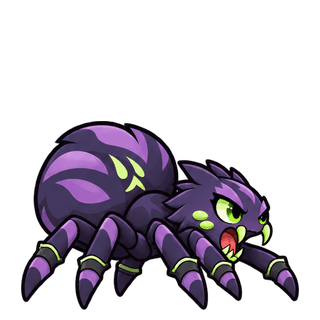
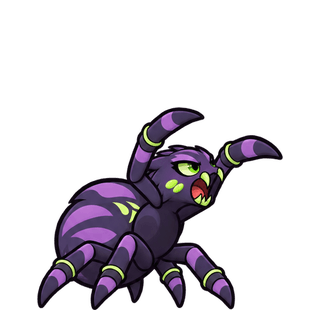
애니 3차 12장 적용 — 아라크네·바실리스크 진화 단계, 애니메이션 요청 전부 끝
- Codex anim-v3: spider·wyrm × 2·3단계 × (idle_2·windup·follow). 검사·육안 검수 통과
  (단계 외형 유지, 1차 몸짓과 같음). 0.88MB → 0.29MB
- 이제 몬스터 12종 × 기본·2·3단계, 용사 8종, 동료 6종 전부 여러 장. 138장, 약 3.7MB
- 확인: 3단계 아라크네 리드로 대기·준비·타격·마무리 재생

diff --git a/docs/anim-frames-handoff.md b/docs/anim-frames-handoff.md
@@ -6,8 +6,8 @@
 > **2차 60장 적용 완료 (2026-11-11).** 10종 × 진화 2·3단계, 검사·육안 검수 통과. 단계별 프레임 수는 매니페스트 `stageFrames`.
 > 들이며 고친 것: 테두리 정리(defringe)를 빼고 1차도 다시 들였다 — 생성 PNG 는 투명 픽셀이 (0,0,0) 이라
 > defringe 가 반투명 가장자리를 알파로 나눠 1차 배포본 가장자리가 평균 43~46 밝아져 있었다(지금 0).
-> **남은 것: 아라크네·바실리스크 12장** — 진화 그림이 들어왔다(2026-11-11). 이제 요청할 수 있다:
-> `mon_spider_t2_idle_2` 처럼 2·3단계 × 3장씩. 기준·동작 규칙은 2차와 같다(모습은 그 단계 그림, 몸짓은 1차 기본 단계).
+> **3차 12장 적용 완료 (2026-11-11) — 애니메이션 요청 전부 끝.** 몬스터 12종 × 기본·2·3단계, 용사 8종, 동료 6종이
+> 모두 대기 2장 · 공격 3장(동료는 대기 2장)이다. 합계 138장, 압축 후 약 3.7MB.
 
 전투가 단조롭다는 의견을 받아, 코드로 할 수 있는 연출은 먼저 넣었습니다(커밋 `b052945`).
 강타 돌진과 잔상, 대기 숨쉬기, 단계별 성장 오라, 처치 시 날려보내기, 진화 연출입니다.
